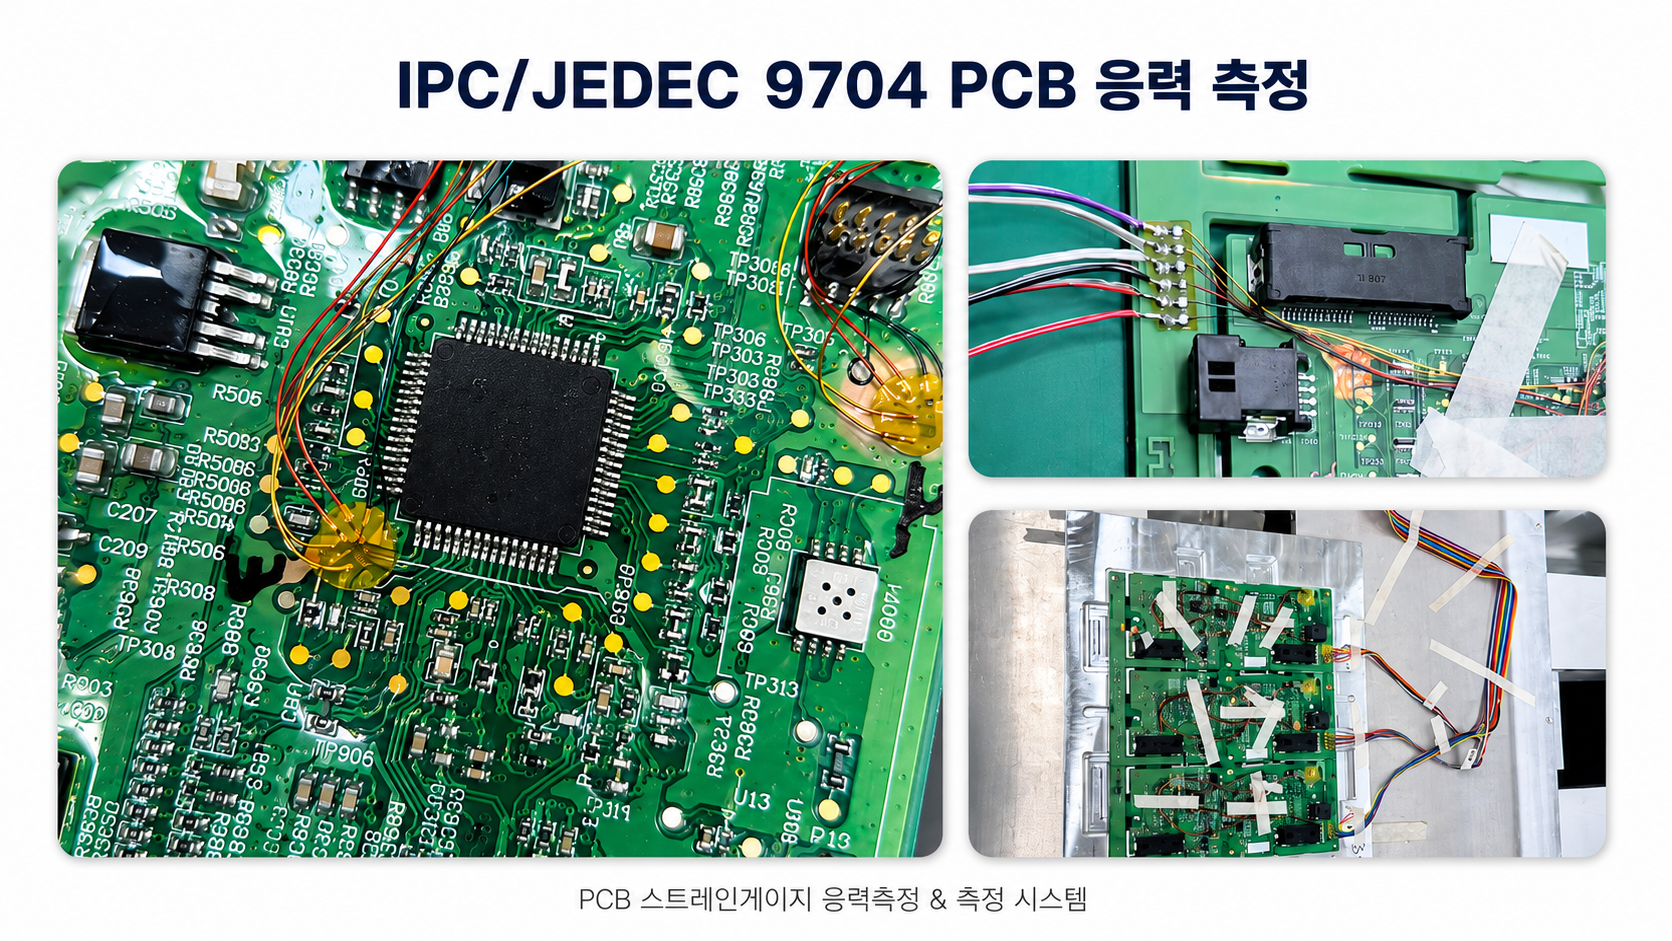
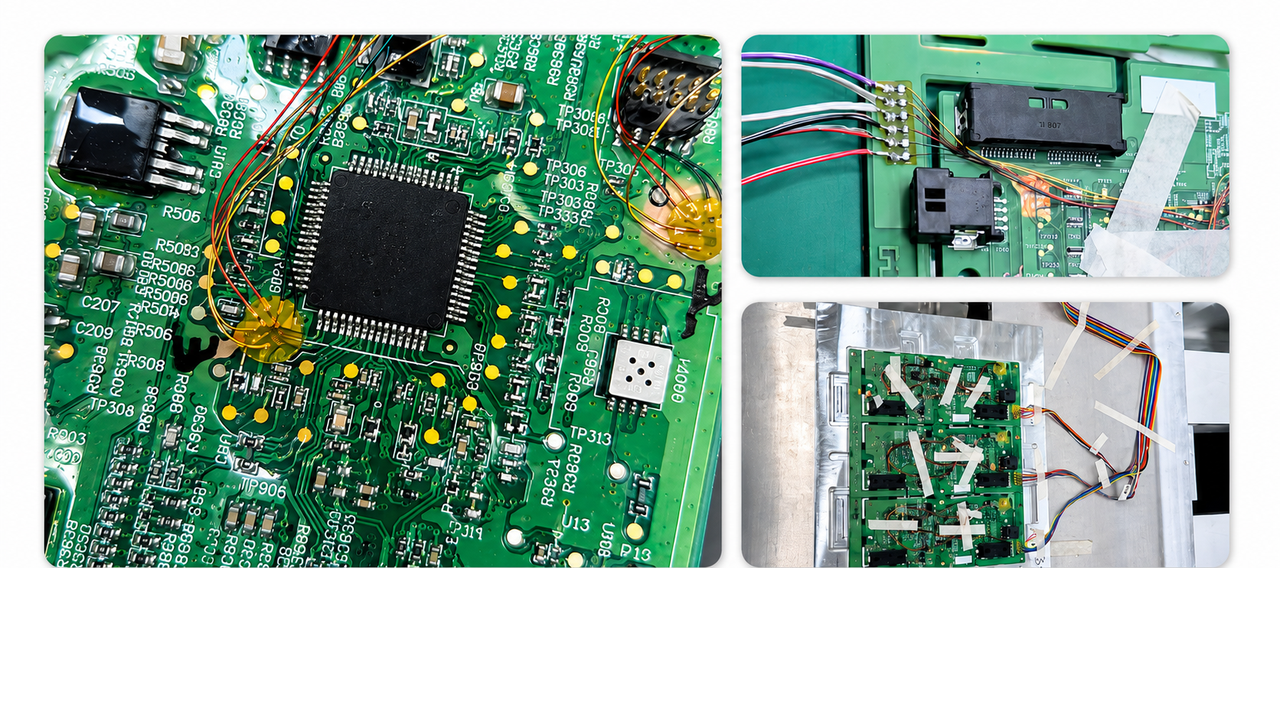
update: hero images resized to 1280×720, titles removed; products brands/desc + contrast fix

diff --git a/products.html b/products.html
@@ -528,14 +528,4 @@ function closeRenewalPopup() {
     var closed = localStorage.getItem('renewal-closed');
     var oneDayMs = 24 * 60 * 60 * 1000;
     if (!closed || Date.now() - Number(closed) > oneDayMs) {
-      var popup = document.getElementById('renewalPopup');
-      popup.style.display = 'flex';
-    }
-  } catch(e) {
-    document.getElementById('renewalPopup').style.display = 'flex';
-  }
-})();
-</script>
-
-</body>
-</html>
+      var popup = documen

diff --git a/css/style.css b/css/style.css
@@ -702,5 +702,4 @@ footer { background: var(--charcoal); color: #d6d2cb; padding: 64px 0 32px; }
 @media (max-width: 1024px) {
   .idx-strength-grid { grid-template-columns: repeat(2, 1fr); }
 }
-@media (max-width: 600px) {
-  .idx-strength-gr
+@media (max-width:
